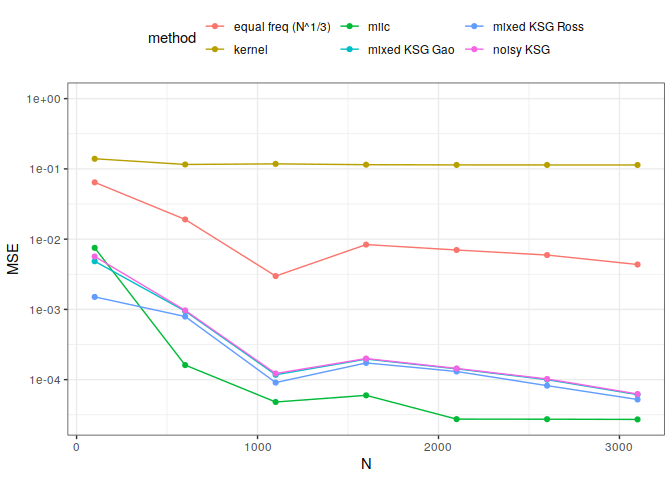
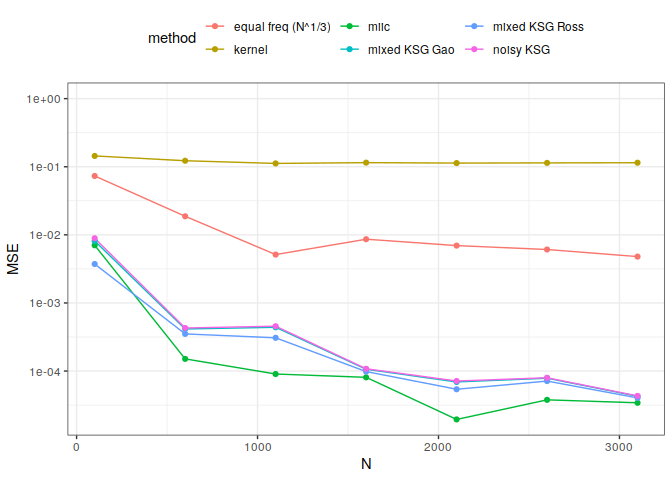
Using nicer fixed plot

diff --git a/MI_benchmarks/FigS3_interaction_dependent_discretization/README.md b/MI_benchmarks/FigS3_interaction_dependent_discretization/README.md
@@ -50,7 +50,7 @@ miic::discretizeMutual(X, Y1)$infok
 
 ![](FigS3_files/figure-gfm/unnamed-chunk-1-1.png)<!-- -->
 
-    ## [1] 0.61778
+    ## [1] 0.66321
 
 ``` r
 Y2 = X**5 + noise/1900
@@ -59,4 +59,4 @@ miic::discretizeMutual(X, Y2)$infok
 
 ![](FigS3_files/figure-gfm/unnamed-chunk-1-2.png)<!-- -->
 
-    ## [1] 0.61469
+    ## [1] 0.68592

diff --git a/MI_benchmarks/Fig2_optimal_discretization_multimodal/README.md b/MI_benchmarks/Fig2_optimal_discretization_multimodal/README.md
@@ -54,12 +54,12 @@ for(N in c(500,1000,10000)){
 
 ![](Fig2_files/figure-gfm/plot-1.png)<!-- -->
 
-    ## [1] 0.98682
+    ## [1] 1.01338
 
 ![](Fig2_files/figure-gfm/plot-2.png)<!-- -->
 
-    ## [1] 1.10994
+    ## [1] 1.09319
 
 ![](Fig2_files/figure-gfm/plot-3.png)<!-- -->
 
-    ## [1] 1.14539
+    ## [1] 1.14827

diff --git a/MI_benchmarks/FigS5_Mutual_info_benchmark_mixed_case/README.md b/MI_benchmarks/FigS5_Mutual_info_benchmark_mixed_case/README.md
@@ -138,13 +138,6 @@ for(N in seq(100,3100, by=500)){
 example = miic::discretizeMutual(X,Y)
 ```
 
-    ## 
-    ## Attaching package: 'gridExtra'
-
-    ## The following object is masked from 'package:dplyr':
-    ## 
-    ##     combine
-
 ![](FigS5_files/figure-gfm/model%201-1.png)<!-- -->
 
 ``` r
